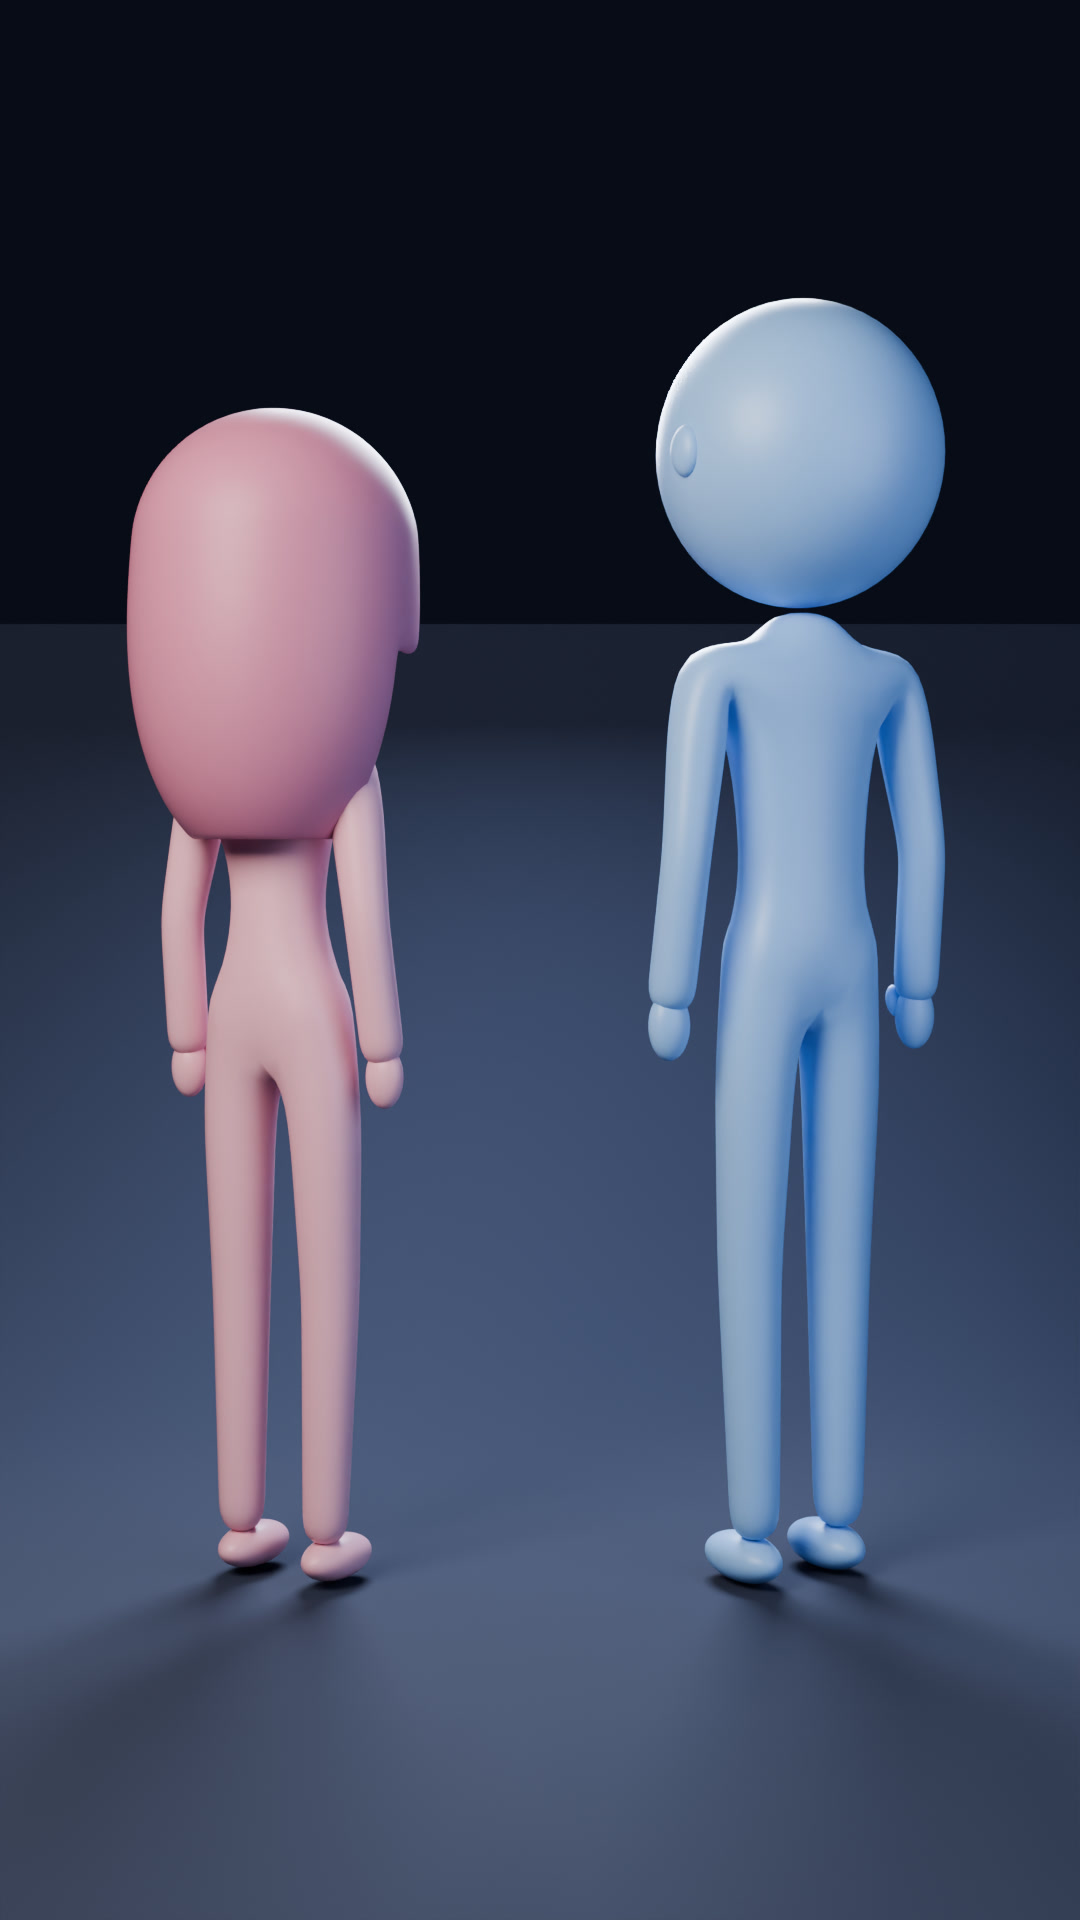
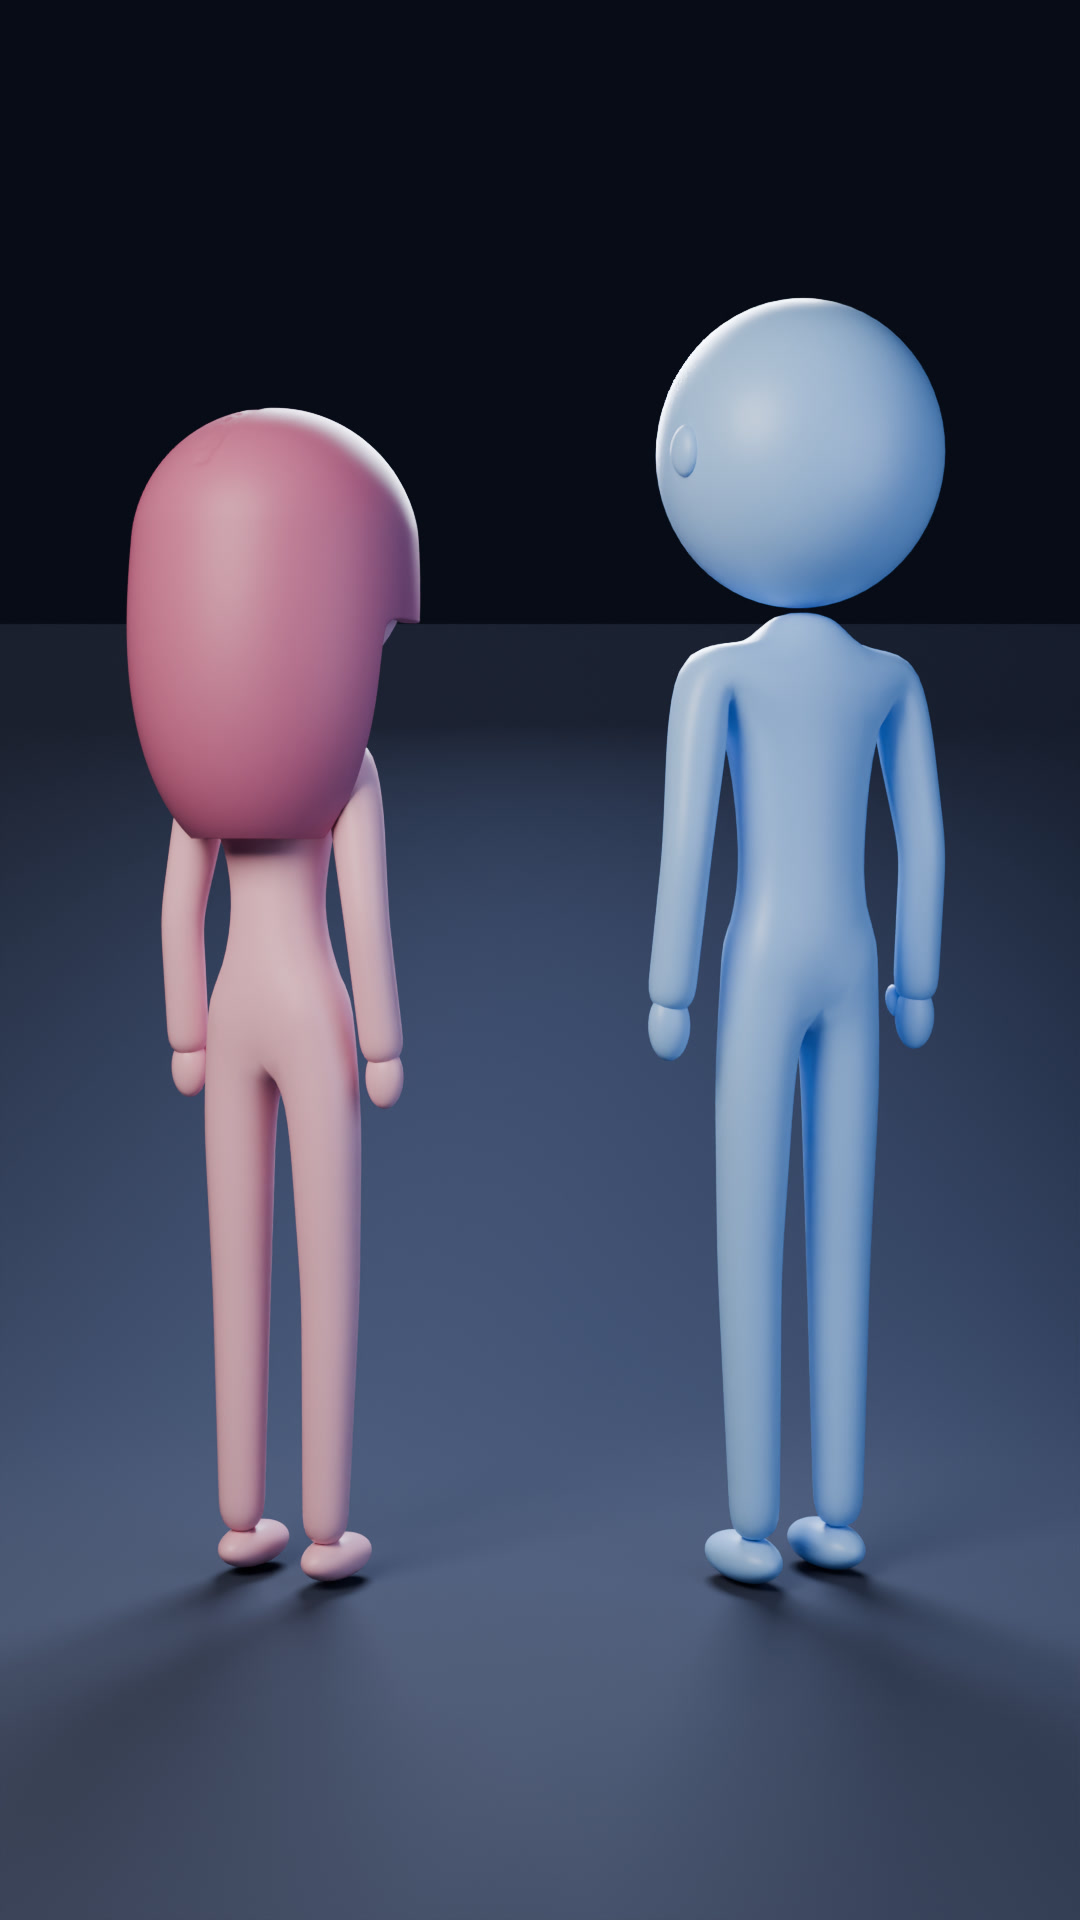
Her hair: centre part, frames the face, falls only behind and at the sides; darker, smooth edge
Claude-Session: https://claude.ai/code/session_01FQFJKx8X2643G2hLZWtcZT

Changed region(s): [[0.0917, 0.2188, 0.3972, 0.4375]]

diff --git a/blender_figures/figures.py b/blender_figures/figures.py
@@ -23,7 +23,7 @@ def mat(name, rgb, rough=0.42, sss=0.0):
 
 
 PINK = mat("pink", (0.86, 0.46, 0.56), 0.4, 0.08)
-HAIR = mat("hair", (0.6, 0.22, 0.34), 0.48, 0.04)
+HAIR = mat("hair", (0.46, 0.13, 0.24), 0.5, 0.03)
 BLUE = mat("blue", (0.30, 0.55, 0.92), 0.4, 0.08)
 INK = mat("ink", (0.025, 0.02, 0.03), 0.35)
 BG = mat("bg", (0.03, 0.04, 0.075), 0.9)
@@ -108,21 +108,31 @@ def figure(w):
     arc(on_head(H, R, (0, -1, -0.38), 0.002), on_head(H, R, (0, -1, -0.38)) - H, (0, 0, 1), 0.04 * k, 0.0065, 205, 335, INK)   # smile
     if w:
         # hair: ONE continuous shell around the head, open for the face, falling just below the shoulders
-        bpy.ops.mesh.primitive_uv_sphere_add(segments=72, ring_count=40, radius=1.0, location=(0, 0, 0))
+        bpy.ops.mesh.primitive_uv_sphere_add(segments=160, ring_count=90, radius=1.0, location=(0, 0, 0))
         hs = bpy.context.active_object; hs.name = "hair"
         bm = bmesh.new(); bm.from_mesh(hs.data)
         drop = (H.z - R) - (z(1.22) - 0.14)                      # how far the ends hang below the head
         kill = []
         for v in bm.verts:
             d = v.co.normalized()
-            face = d.y < -0.2 and (d.x / 0.8) ** 2 + ((d.z + 0.05) / 0.62) ** 2 < 1.0   # oval face window, brows free
-            chin = d.y < -0.1 and d.z < -0.25                           # nothing in front of the neck
+            # face window: narrow at the centre part, opening down to the cheeks (forehead + brows free)
+            wz = 0.2 + 0.58 * min(1.0, max(0.0, (0.82 - d.z) / 0.85))
+            face = d.y < -0.22 and abs(d.x) < wz and d.z < 0.86
+            chin = d.y < 0.05 and d.z < -0.2                            # nothing in front: hair falls only behind and at the sides
             if face or chin or d.z < -0.9: kill.append(v); continue
             rr = R * (1.07 + 0.02 * max(0, d.z))
+            if abs(d.x) < 0.06 and d.z > 0.55: rr *= 0.985              # soft centre part
             t = max(0.0, (0.15 - d.z) / 1.05)                           # 0 above the ears .. 1 at the bottom
             sp = 1 + 0.12 * t ** 1.3                                    # ends flare a little
-            v.co = Vector((d.x * rr * sp, d.y * rr * sp + 0.02 * t, d.z * rr - drop * t ** 0.9))
-        bmesh.ops.delete(bm, geom=kill, context="VERTS"); bm.to_mesh(hs.data); bm.free()
+            x, y = d.x * rr * sp, d.y * rr * sp + 0.02 * t
+            v.co = Vector((x, y, d.z * rr - drop * t ** 0.9))
+        bmesh.ops.delete(bm, geom=kill, context="VERTS")
+        edge = set(v for v in bm.verts if v.is_boundary)
+        ring = set(e.other_vert(v) for v in edge for e in v.link_edges) | edge
+        ring2 = set(e.other_vert(v) for v in ring for e in v.link_edges) | ring
+        for _ in range(30): bmesh.ops.smooth_vert(bm, verts=list(edge), factor=0.5, use_axis_x=True, use_axis_y=True, use_axis_z=True)
+        for _ in range(10): bmesh.ops.smooth_vert(bm, verts=list(ring2), factor=0.4, use_axis_x=True, use_axis_y=True, use_axis_z=True)
+        bm.to_mesh(hs.data); bm.free()
         hs.location = H + Vector((0, 0.012, 0))
         so = hs.modifiers.new("thick", "SOLIDIFY"); so.thickness = 0.03; so.offset = -1
         sb = hs.modifiers.new("sub", "SUBSURF"); sb.levels = sb.render_levels = 2
